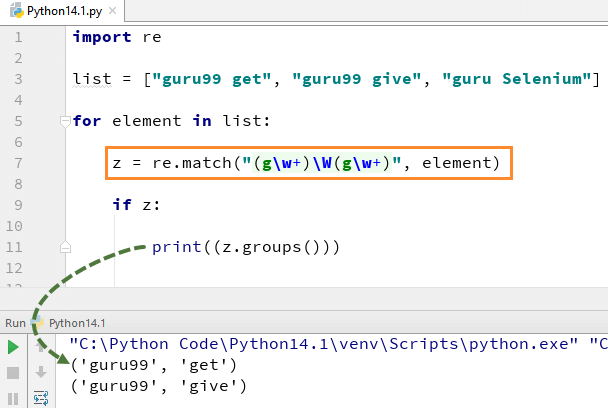
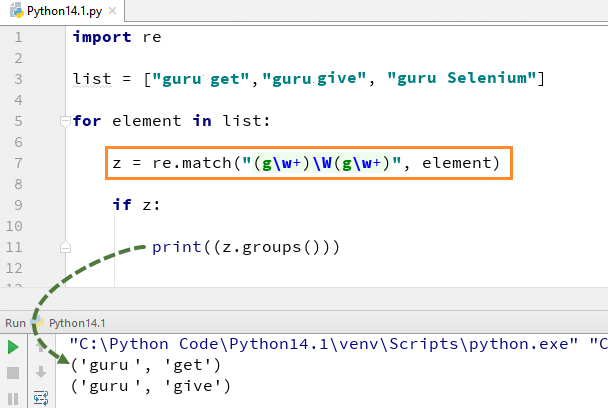
updated chnages

Changed region(s): [[0.3125, 0.1765, 1.0, 0.2353], [0.2188, 0.8824, 0.4062, 0.9706]]

diff --git a/_site/blog/Pythonlesson16.html b/_site/blog/Pythonlesson16.html
@@ -227,7 +227,7 @@
             </div>
             <h2><a id="1"></a>Regular Expression Syntax</h2>
             <p><strong>RE </strong> </p>
-            <pre class="code-toolbar"><code><code>	import re
+            <pre class="code-toolbar"><code>	import re
          </code></pre>
             <ul>
                 <li>"re" module included with Python primarily used for string searching and manipulation </li>
@@ -242,14 +242,14 @@
             </ul>
             <p>Here we will see an example of how we can use w+ and ^ expression in our code. We cover re.findall
                 function later in this tutorial but for a while we simply focus on \w+ and \^ expression. </p>
-            <p> For example, for our string "guru99, education is fun" if we execute the code with w+ and^, it will give
+            <p> For example, for our string "guru, education is fun" if we execute the code with w+ and^, it will give
                 the output "guru". </p>
             <p style="text-align: center; "><a href="http://localhost:4000/img/python/tutorial/16/Python14.1.png"
                     class="jh-image-popup-colorbox cboxElement"><img
                         title="Python Regular Expressions: Complete Tutorial"
                         alt="Python Regex Tutorial: re.match(),re.search(), re.findall(), Flags"
                         src="http://localhost:4000/img/python/tutorial/16/Python14.1.png"></a> </p>
-            <pre class="code-toolbar"><code><code>import re
+            <pre class="code-toolbar"><code>import re
          xx = "guru,education is fun"
          r1 = re.findall(r"^\w+",xx)
          print(r1)</code></pre>
@@ -279,8 +279,8 @@
             <p>Similarly, there are series of other regular expressions in Python that you can use in various ways in
                 Python like \d,\D,$,\.,\b, etc. </p>
             <p>Here is the complete code </p>
-            <pre class="code-toolbar"><code><code>import re
-         xx = "guru99,education is fun"
+            <pre class="code-toolbar"><code>import re
+         xx = "guru,education is fun"
          r1 = re.findall(r"^\w+", xx)
          print((re.split(r'\s','we are splitting the words')))
          print((re.split(r's','split the words')))</code></pre>
@@ -318,11 +318,11 @@
                         title="Python Regular Expressions: Complete Tutorial"
                         alt="Python Regex Tutorial: re.match(),re.search(), re.findall(), Flags"
                         src="http://localhost:4000/img/python/tutorial/16/Python14.5.png"></a> </p>
-            <p>For example here we look for two literal strings "Software testing" "guru99", in a text string
+            <p>For example here we look for two literal strings "Software testing" "guru", in a text string
                 "Software<a href="/software-testing.html"
                     onclick="ga('send', 'event', 'internal_linking', 'Python Regex Tutorial: re.match(),re.search(), re.findall(), Flags', 'Python Regex Tutorial: re.match(),re.search(), re.findall(), Flags');">
                     Testing </a>is fun". For "software testing" we found the match hence it returns the output as "found
-                a match", while for word "guru99" we could not found in string hence it returns the output as "No
+                a match", while for word "guru" we could not found in string hence it returns the output as "No
                 match". </p>
             <h2><a id="7"></a>Using re.findall for text</h2>
             <p>Re.findall() module is used when you want to iterate over the lines of the file, it will return a list of
@@ -335,15 +335,15 @@
                         alt="Python Regex Tutorial: re.match(),re.search(), re.findall(), Flags"
                         src="http://localhost:4000/img/python/tutorial/16/Python14.6.png"></a> </p>
             <p>Here is the complete code </p>
-            <pre class="code-toolbar"><code><code>import re
+            <pre class="code-toolbar"><code>import re
          
-         list = ["guru99 get", "guru99 give", "guru Selenium"]
+         list = ["guru get", "guru give", "guru Selenium"]
          for element in list:
              z = re.match("(g\w+)\W(g\w+)", element)
          if z:
              print((z.groups()))
              
-         patterns = ['software testing', 'guru99']
+         patterns = ['software testing', 'guru']
          text = 'software testing is fun?'
          for pattern in patterns:
              print('Looking for "%s" in "%s" -&gt;' % (pattern, text), end=' ')
@@ -351,8 +351,8 @@
                  print('found a match!')
          else:
              print('no match')
-         abc = <span id="cloakb423dbe997bf5ce49a8608254902d46c"><a href="mailto:'guru99@google.com">'guru99@google.com</a></span><script src="/media/plg_jchoptimize/cache/js/b6bec3fdcab9c764d07ac6eb67aa12a4_0.js"></script>
-             <script>document.getElementById('cloakb423dbe997bf5ce49a8608254902d46c').innerHTML = ''; var prefix = '&#109;a' + 'i&#108;' + '&#116;o'; var path = 'hr' + 'ef' + '='; var addyb423dbe997bf5ce49a8608254902d46c = '&#039;g&#117;r&#117;99' + '&#64;'; addyb423dbe997bf5ce49a8608254902d46c = addyb423dbe997bf5ce49a8608254902d46c + 'g&#111;&#111;gl&#101;' + '&#46;' + 'c&#111;m'; var addy_textb423dbe997bf5ce49a8608254902d46c = '&#039;g&#117;r&#117;99' + '&#64;' + 'g&#111;&#111;gl&#101;' + '&#46;' + 'c&#111;m'; document.getElementById('cloakb423dbe997bf5ce49a8608254902d46c').innerHTML += '<a ' + path + '\'' + prefix + ':' + addyb423dbe997bf5ce49a8608254902d46c + '\'>' + addy_textb423dbe997bf5ce49a8608254902d46c + '<\/a>';</script>, <span id="cloak28a8928c51f23b3066d076110cb02d1d"><a href="mailto:careerguru99@hotmail.com">careerguru99@hotmail.com</a></span><script>document.getElementById('cloak28a8928c51f23b3066d076110cb02d1d').innerHTML = ''; var prefix = '&#109;a' + 'i&#108;' + '&#116;o'; var path = 'hr' + 'ef' + '='; var addy28a8928c51f23b3066d076110cb02d1d = 'c&#97;r&#101;&#101;rg&#117;r&#117;99' + '&#64;'; addy28a8928c51f23b3066d076110cb02d1d = addy28a8928c51f23b3066d076110cb02d1d + 'h&#111;tm&#97;&#105;l' + '&#46;' + 'c&#111;m'; var addy_text28a8928c51f23b3066d076110cb02d1d = 'c&#97;r&#101;&#101;rg&#117;r&#117;99' + '&#64;' + 'h&#111;tm&#97;&#105;l' + '&#46;' + 'c&#111;m'; document.getElementById('cloak28a8928c51f23b3066d076110cb02d1d').innerHTML += '<a ' + path + '\'' + prefix + ':' + addy28a8928c51f23b3066d076110cb02d1d + '\'>' + addy_text28a8928c51f23b3066d076110cb02d1d + '<\/a>';</script>, <span id="cloak1b474f05b5758d526118ba6d92a65a9b"><a href="mailto:users@yahoomail.com">users@yahoomail.com</a></span><script>document.getElementById('cloak1b474f05b5758d526118ba6d92a65a9b').innerHTML = ''; var prefix = '&#109;a' + 'i&#108;' + '&#116;o'; var path = 'hr' + 'ef' + '='; var addy1b474f05b5758d526118ba6d92a65a9b = '&#117;s&#101;rs' + '&#64;'; addy1b474f05b5758d526118ba6d92a65a9b = addy1b474f05b5758d526118ba6d92a65a9b + 'y&#97;h&#111;&#111;m&#97;&#105;l' + '&#46;' + 'c&#111;m'; var addy_text1b474f05b5758d526118ba6d92a65a9b = '&#117;s&#101;rs' + '&#64;' + 'y&#97;h&#111;&#111;m&#97;&#105;l' + '&#46;' + 'c&#111;m'; document.getElementById('cloak1b474f05b5758d526118ba6d92a65a9b').innerHTML += '<a ' + path + '\'' + prefix + ':' + addy1b474f05b5758d526118ba6d92a65a9b + '\'>' + addy_text1b474f05b5758d526118ba6d92a65a9b + '<\/a>';</script>'
+         abc = <span id="cloakb423dbe997bf5ce49a8608254902d46c"><a href="mailto:'guru@google.com">'guru@google.com</a></span><script src="/media/plg_jchoptimize/cache/js/b6bec3fdcab9c764d07ac6eb67aa12a4_0.js"></script>
+             <script>document.getElementById('cloakb423dbe997bf5ce49a8608254902d46c').innerHTML = ''; var prefix = '&#109;a' + 'i&#108;' + '&#116;o'; var path = 'hr' + 'ef' + '='; var addyb423dbe997bf5ce49a8608254902d46c = '&#039;g&#117;r&#117;99' + '&#64;'; addyb423dbe997bf5ce49a8608254902d46c = addyb423dbe997bf5ce49a8608254902d46c + 'g&#111;&#111;gl&#101;' + '&#46;' + 'c&#111;m'; var addy_textb423dbe997bf5ce49a8608254902d46c = '&#039;g&#117;r&#117;99' + '&#64;' + 'g&#111;&#111;gl&#101;' + '&#46;' + 'c&#111;m'; document.getElementById('cloakb423dbe997bf5ce49a8608254902d46c').innerHTML += '<a ' + path + '\'' + prefix + ':' + addyb423dbe997bf5ce49a8608254902d46c + '\'>' + addy_textb423dbe997bf5ce49a8608254902d46c + '<\/a>';</script>, <span id="cloak28a8928c51f23b3066d076110cb02d1d"><a href="mailto:careerguru@hotmail.com">careerguru@hotmail.com</a></span><script>document.getElementById('cloak28a8928c51f23b3066d076110cb02d1d').innerHTML = ''; var prefix = '&#109;a' + 'i&#108;' + '&#116;o'; var path = 'hr' + 'ef' + '='; var addy28a8928c51f23b3066d076110cb02d1d = 'c&#97;r&#101;&#101;rg&#117;r&#117;99' + '&#64;'; addy28a8928c51f23b3066d076110cb02d1d = addy28a8928c51f23b3066d076110cb02d1d + 'h&#111;tm&#97;&#105;l' + '&#46;' + 'c&#111;m'; var addy_text28a8928c51f23b3066d076110cb02d1d = 'c&#97;r&#101;&#101;rg&#117;r&#117;99' + '&#64;' + 'h&#111;tm&#97;&#105;l' + '&#46;' + 'c&#111;m'; document.getElementById('cloak28a8928c51f23b3066d076110cb02d1d').innerHTML += '<a ' + path + '\'' + prefix + ':' + addy28a8928c51f23b3066d076110cb02d1d + '\'>' + addy_text28a8928c51f23b3066d076110cb02d1d + '<\/a>';</script>, <span id="cloak1b474f05b5758d526118ba6d92a65a9b"><a href="mailto:users@yahoomail.com">users@yahoomail.com</a></span><script>document.getElementById('cloak1b474f05b5758d526118ba6d92a65a9b').innerHTML = ''; var prefix = '&#109;a' + 'i&#108;' + '&#116;o'; var path = 'hr' + 'ef' + '='; var addy1b474f05b5758d526118ba6d92a65a9b = '&#117;s&#101;rs' + '&#64;'; addy1b474f05b5758d526118ba6d92a65a9b = addy1b474f05b5758d526118ba6d92a65a9b + 'y&#97;h&#111;&#111;m&#97;&#105;l' + '&#46;' + 'c&#111;m'; var addy_text1b474f05b5758d526118ba6d92a65a9b = '&#117;s&#101;rs' + '&#64;' + 'y&#97;h&#111;&#111;m&#97;&#105;l' + '&#46;' + 'c&#111;m'; document.getElementById('cloak1b474f05b5758d526118ba6d92a65a9b').innerHTML += '<a ' + path + '\'' + prefix + ':' + addy1b474f05b5758d526118ba6d92a65a9b + '\'>' + addy_text1b474f05b5758d526118ba6d92a65a9b + '<\/a>';</script>'
          emails = re.findall(r'[\w\.-]+@[\w\.-]+', abc)
          for email in emails:
              print(email)</code></pre>
@@ -407,7 +407,7 @@
                         alt="Python Regex Tutorial: re.match(),re.search(), re.findall(), Flags"
                         src="http://localhost:4000/img/python/tutorial/16/Python14.7.png"></a> </p>
             <p>Here is the code </p>
-            <pre class="code-toolbar"><code><code>import re
+            <pre class="code-toolbar"><code>import re
          xx = """guru99 
          careerguru99	
          selenium"""
@@ -416,7 +416,7 @@
          print(k1)
          print(k2)</code></pre>
             <ul>
-                <li>We declared the variable xx for string " guru99…. careerguru99….selenium"</li>
+                <li>We declared the variable xx for string " guru…. careerguru….selenium"</li>
                 <li>Run the code without using flags multiline, it gives the output only 'g' from the lines</li>
                 <li>Run the code with flag "multiline", when you print 'k2' it gives the output as 'g', 'c' and 's'
                 </li>
@@ -426,15 +426,15 @@
                 Comment), etc. </p>
             <p><b>Python 2 Example</b> </p>
             <p>Above codes are Python 3 examples, If you want to run in Python 2 please consider following code. </p>
-            <pre class="code-toolbar"><code><code># Example of w+ and ^ Expression
+            <pre class="code-toolbar"><code># Example of w+ and ^ Expression
          import re
-         xx = "guru99,education is fun"
+         xx = "guru,education is fun"
          r1 = re.findall(r"^\w+",xx)
          print r1
          
          # Example of \s expression in re.split function
          import re
-         xx = "guru99,education is fun"
+         xx = "guru,education is fun"
          r1 = re.findall(r"^\w+", xx)
          print (re.split(r'\s','we are splitting the words'))
          print (re.split(r's','split the words'))
@@ -442,13 +442,13 @@
          # Using re.findall for text
          import re
          
-         list = ["guru99 get", "guru99 give", "guru Selenium"]
+         list = ["guru get", "guru give", "guru Selenium"]
          for element in list:
              z = re.match("(g\w+)\W(g\w+)", element)
          if z:
              print(z.groups())
              
-         patterns = ['software testing', 'guru99']
+         patterns = ['software testing', 'guru']
          text = 'software testing is fun?'
          for pattern in patterns:
              print 'Looking for "%s" in "%s" -&gt;' % (pattern, text),
@@ -456,15 +456,15 @@
                  print 'found a match!'
          else:
              print 'no match'
-         abc = <span id="cloak7e3c445ef7094b61fb031021bd034781"><a href="mailto:'guru99@google.com">'guru99@google.com</a></span><script>document.getElementById('cloak7e3c445ef7094b61fb031021bd034781').innerHTML = ''; var prefix = '&#109;a' + 'i&#108;' + '&#116;o'; var path = 'hr' + 'ef' + '='; var addy7e3c445ef7094b61fb031021bd034781 = '&#039;g&#117;r&#117;99' + '&#64;'; addy7e3c445ef7094b61fb031021bd034781 = addy7e3c445ef7094b61fb031021bd034781 + 'g&#111;&#111;gl&#101;' + '&#46;' + 'c&#111;m'; var addy_text7e3c445ef7094b61fb031021bd034781 = '&#039;g&#117;r&#117;99' + '&#64;' + 'g&#111;&#111;gl&#101;' + '&#46;' + 'c&#111;m'; document.getElementById('cloak7e3c445ef7094b61fb031021bd034781').innerHTML += '<a ' + path + '\'' + prefix + ':' + addy7e3c445ef7094b61fb031021bd034781 + '\'>' + addy_text7e3c445ef7094b61fb031021bd034781 + '<\/a>';</script>, <span id="cloakeea47a6c47b3606d4442b8620b6630d0"><a href="mailto:careerguru99@hotmail.com">careerguru99@hotmail.com</a></span><script>document.getElementById('cloakeea47a6c47b3606d4442b8620b6630d0').innerHTML = ''; var prefix = '&#109;a' + 'i&#108;' + '&#116;o'; var path = 'hr' + 'ef' + '='; var addyeea47a6c47b3606d4442b8620b6630d0 = 'c&#97;r&#101;&#101;rg&#117;r&#117;99' + '&#64;'; addyeea47a6c47b3606d4442b8620b6630d0 = addyeea47a6c47b3606d4442b8620b6630d0 + 'h&#111;tm&#97;&#105;l' + '&#46;' + 'c&#111;m'; var addy_texteea47a6c47b3606d4442b8620b6630d0 = 'c&#97;r&#101;&#101;rg&#117;r&#117;99' + '&#64;' + 'h&#111;tm&#97;&#105;l' + '&#46;' + 'c&#111;m'; document.getElementById('cloakeea47a6c47b3606d4442b8620b6630d0').innerHTML += '<a ' + path + '\'' + prefix + ':' + addyeea47a6c47b3606d4442b8620b6630d0 + '\'>' + addy_texteea47a6c47b3606d4442b8620b6630d0 + '<\/a>';</script>, <span id="cloak0fe0bb819b137f4365c98714691287ca"><a href="mailto:users@yahoomail.com">users@yahoomail.com</a></span><script>document.getElementById('cloak0fe0bb819b137f4365c98714691287ca').innerHTML = ''; var prefix = '&#109;a' + 'i&#108;' + '&#116;o'; var path = 'hr' + 'ef' + '='; var addy0fe0bb819b137f4365c98714691287ca = '&#117;s&#101;rs' + '&#64;'; addy0fe0bb819b137f4365c98714691287ca = addy0fe0bb819b137f4365c98714691287ca + 'y&#97;h&#111;&#111;m&#97;&#105;l' + '&#46;' + 'c&#111;m'; var addy_text0fe0bb819b137f4365c98714691287ca = '&#117;s&#101;rs' + '&#64;' + 'y&#97;h&#111;&#111;m&#97;&#105;l' + '&#46;' + 'c&#111;m'; document.getElementById('cloak0fe0bb819b137f4365c98714691287ca').innerHTML += '<a ' + path + '\'' + prefix + ':' + addy0fe0bb819b137f4365c98714691287ca + '\'>' + addy_text0fe0bb819b137f4365c98714691287ca + '<\/a>';</script>'
+         abc = <span id="cloak7e3c445ef7094b61fb031021bd034781"><a href="mailto:'guru@google.com">'guru@google.com</a></span><script>document.getElementById('cloak7e3c445ef7094b61fb031021bd034781').innerHTML = ''; var prefix = '&#109;a' + 'i&#108;' + '&#116;o'; var path = 'hr' + 'ef' + '='; var addy7e3c445ef7094b61fb031021bd034781 = '&#039;g&#117;r&#117;99' + '&#64;'; addy7e3c445ef7094b61fb031021bd034781 = addy7e3c445ef7094b61fb031021bd034781 + 'g&#111;&#111;gl&#101;' + '&#46;' + 'c&#111;m'; var addy_text7e3c445ef7094b61fb031021bd034781 = '&#039;g&#117;r&#117;99' + '&#64;' + 'g&#111;&#111;gl&#101;' + '&#46;' + 'c&#111;m'; document.getElementById('cloak7e3c445ef7094b61fb031021bd034781').innerHTML += '<a ' + path + '\'' + prefix + ':' + addy7e3c445ef7094b61fb031021bd034781 + '\'>' + addy_text7e3c445ef7094b61fb031021bd034781 + '<\/a>';</script>, <span id="cloakeea47a6c47b3606d4442b8620b6630d0"><a href="mailto:careerguru@hotmail.com">careerguru@hotmail.com</a></span><script>document.getElementById('cloakeea47a6c47b3606d4442b8620b6630d0').innerHTML = ''; var prefix = '&#109;a' + 'i&#108;' + '&#116;o'; var path = 'hr' + 'ef' + '='; var addyeea47a6c47b3606d4442b8620b6630d0 = 'c&#97;r&#101;&#101;rg&#117;r&#117;99' + '&#64;'; addyeea47a6c47b3606d4442b8620b6630d0 = addyeea47a6c47b3606d4442b8620b6630d0 + 'h&#111;tm&#97;&#105;l' + '&#46;' + 'c&#111;m'; var addy_texteea47a6c47b3606d4442b8620b6630d0 = 'c&#97;r&#101;&#101;rg&#117;r&#117;99' + '&#64;' + 'h&#111;tm&#97;&#105;l' + '&#46;' + 'c&#111;m'; document.getElementById('cloakeea47a6c47b3606d4442b8620b6630d0').innerHTML += '<a ' + path + '\'' + prefix + ':' + addyeea47a6c47b3606d4442b8620b6630d0 + '\'>' + addy_texteea47a6c47b3606d4442b8620b6630d0 + '<\/a>';</script>, <span id="cloak0fe0bb819b137f4365c98714691287ca"><a href="mailto:users@yahoomail.com">users@yahoomail.com</a></span><script>document.getElementById('cloak0fe0bb819b137f4365c98714691287ca').innerHTML = ''; var prefix = '&#109;a' + 'i&#108;' + '&#116;o'; var path = 'hr' + 'ef' + '='; var addy0fe0bb819b137f4365c98714691287ca = '&#117;s&#101;rs' + '&#64;'; addy0fe0bb819b137f4365c98714691287ca = addy0fe0bb819b137f4365c98714691287ca + 'y&#97;h&#111;&#111;m&#97;&#105;l' + '&#46;' + 'c&#111;m'; var addy_text0fe0bb819b137f4365c98714691287ca = '&#117;s&#101;rs' + '&#64;' + 'y&#97;h&#111;&#111;m&#97;&#105;l' + '&#46;' + 'c&#111;m'; document.getElementById('cloak0fe0bb819b137f4365c98714691287ca').innerHTML += '<a ' + path + '\'' + prefix + ':' + addy0fe0bb819b137f4365c98714691287ca + '\'>' + addy_text0fe0bb819b137f4365c98714691287ca + '<\/a>';</script>'
          emails = re.findall(r'[\w\.-]+@[\w\.-]+', abc)
          for email in emails:
              print email
          
          # Example of re.M or Multiline Flags
          import re
-         xx = """guru99 
-         careerguru99	
+         xx = """guru
+         careerguru	
          selenium"""
          k1 = re.findall(r"^\w", xx)
          k2 = re.findall(r"^\w", xx, re.MULTILINE)

diff --git a/_posts/python/basictutorials/2019-09-30-Pythonlesson16.html b/_posts/python/basictutorials/2019-09-30-Pythonlesson16.html
@@ -122,7 +122,7 @@ discussion_id: 2019-09-30-PythonExpressions
             </div>
             <h2><a id="1"></a>Regular Expression Syntax</h2>
             <p><strong>RE </strong> </p>
-            <pre class="code-toolbar"><code><code>	import re
+            <pre class="code-toolbar"><code>	import re
          </code></pre>
             <ul>
                 <li>"re" module included with Python primarily used for string searching and manipulation </li>
@@ -144,7 +144,7 @@ discussion_id: 2019-09-30-PythonExpressions
                         title="Python Regular Expressions: Complete Tutorial"
                         alt="Python Regex Tutorial: re.match(),re.search(), re.findall(), Flags"
                         src="{{site.url}}{{site.baseurl}}/img/python/tutorial/16/Python14.1.png"></a> </p>
-            <pre class="code-toolbar"><code><code>import re
+            <pre class="code-toolbar"><code>import re
          xx = "guru,education is fun"
          r1 = re.findall(r"^\w+",xx)
          print(r1)</code></pre>
@@ -174,7 +174,7 @@ discussion_id: 2019-09-30-PythonExpressions
             <p>Similarly, there are series of other regular expressions in Python that you can use in various ways in
                 Python like \d,\D,$,\.,\b, etc. </p>
             <p>Here is the complete code </p>
-            <pre class="code-toolbar"><code><code>import re
+            <pre class="code-toolbar"><code>import re
          xx = "guru,education is fun"
          r1 = re.findall(r"^\w+", xx)
          print((re.split(r'\s','we are splitting the words')))
@@ -230,7 +230,7 @@ discussion_id: 2019-09-30-PythonExpressions
                         alt="Python Regex Tutorial: re.match(),re.search(), re.findall(), Flags"
                         src="{{site.url}}{{site.baseurl}}/img/python/tutorial/16/Python14.6.png"></a> </p>
             <p>Here is the complete code </p>
-            <pre class="code-toolbar"><code><code>import re
+            <pre class="code-toolbar"><code>import re
          
          list = ["guru get", "guru give", "guru Selenium"]
          for element in list:
@@ -302,7 +302,7 @@ discussion_id: 2019-09-30-PythonExpressions
                         alt="Python Regex Tutorial: re.match(),re.search(), re.findall(), Flags"
                         src="{{site.url}}{{site.baseurl}}/img/python/tutorial/16/Python14.7.png"></a> </p>
             <p>Here is the code </p>
-            <pre class="code-toolbar"><code><code>import re
+            <pre class="code-toolbar"><code>import re
          xx = """guru99 
          careerguru99	
          selenium"""
@@ -321,7 +321,7 @@ discussion_id: 2019-09-30-PythonExpressions
                 Comment), etc. </p>
             <p><b>Python 2 Example</b> </p>
             <p>Above codes are Python 3 examples, If you want to run in Python 2 please consider following code. </p>
-            <pre class="code-toolbar"><code><code># Example of w+ and ^ Expression
+            <pre class="code-toolbar"><code># Example of w+ and ^ Expression
          import re
          xx = "guru,education is fun"
          r1 = re.findall(r"^\w+",xx)
